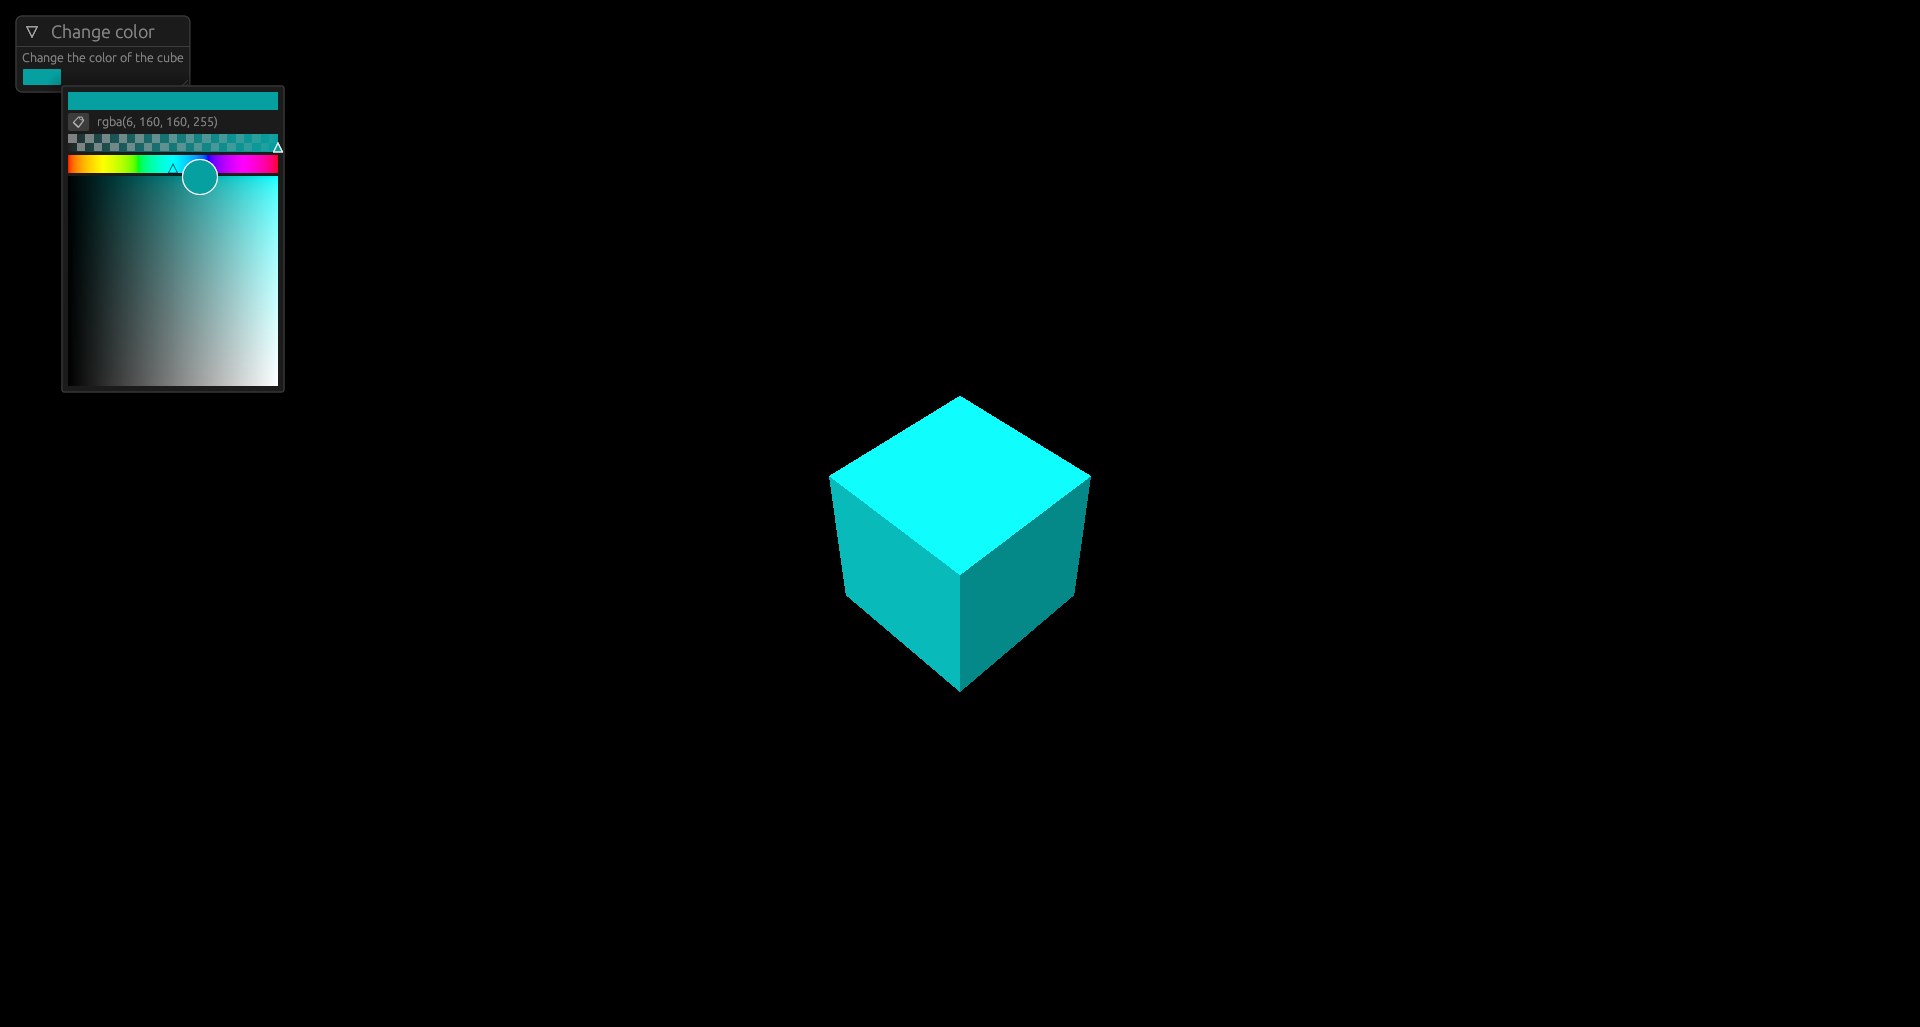
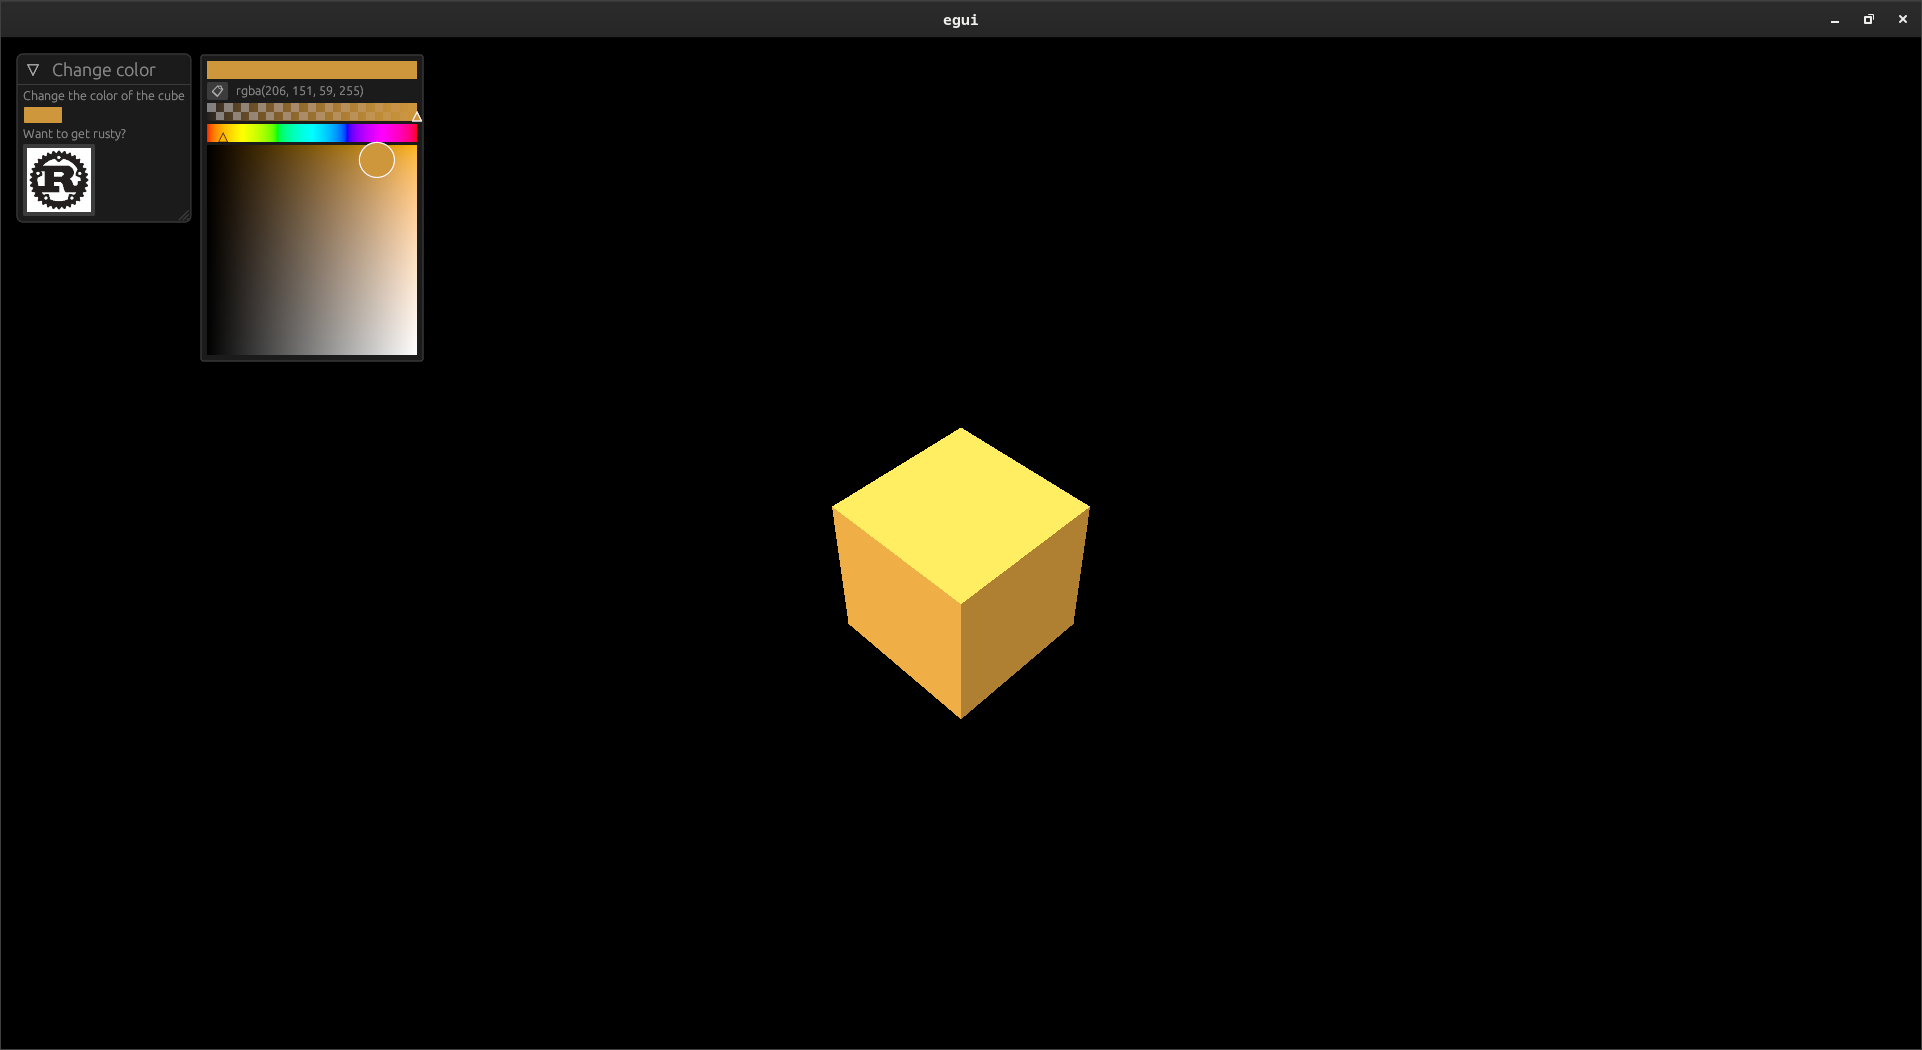
Added image importing for egui (#358)

Changed region(s): [[0.0, 0.0, 1.0, 0.4051], [0.4062, 0.3739, 0.5938, 0.6855], [0.0, 0.9971, 1.0, 1.0]]

diff --git a/rend3-egui/src/lib.rs b/rend3-egui/src/lib.rs
@@ -7,6 +7,7 @@ use rend3::{
     types::SampleCount,
     Renderer,
 };
+use std::sync::Arc;
 use wgpu::{Color, TextureFormat};
 
 pub struct EguiRenderRoutine {
@@ -86,6 +87,85 @@ impl EguiRenderRoutine {
                 .execute_with_renderpass(rpass, input.clipped_meshes, &this.screen_descriptor)
                 .unwrap();
         });
+    }
+
+    /// Creates an egui texture from the given image data, format, and dimensions.
+    pub fn create_egui_texture(
+        internal: &mut egui_wgpu_backend::RenderPass,
+        renderer: &Arc<rend3::Renderer>,
+        format: wgpu::TextureFormat,
+        image_rgba: &[u8],
+        dimensions: (u32, u32),
+        label: Option<&str>,
+    ) -> egui::TextureId {
+        let texture_size = wgpu::Extent3d {
+            width: dimensions.0,
+            height: dimensions.1,
+            depth_or_array_layers: 1,
+        };
+
+        let image_texture = renderer.device.create_texture(&wgpu::TextureDescriptor {
+            size: texture_size,
+            mip_level_count: 1,
+            sample_count: 1,
+            dimension: wgpu::TextureDimension::D2,
+            format,
+            usage: wgpu::TextureUsages::TEXTURE_BINDING | wgpu::TextureUsages::COPY_DST,
+            label,
+        });
+
+        EguiRenderRoutine::wgpu_texture_to_egui(
+            internal,
+            renderer,
+            image_texture,
+            image_rgba,
+            dimensions,
+            format.describe(),
+        )
+    }
+
+    /// Creates egui::TextureId with wgpu backend with existing wgpu::Texture
+    pub fn wgpu_texture_to_egui(
+        internal: &mut egui_wgpu_backend::RenderPass,
+        renderer: &Arc<rend3::Renderer>,
+        image_texture: wgpu::Texture,
+        image_rgba: &[u8],
+        dimensions: (u32, u32),
+        textureformatinfo: wgpu_types::TextureFormatInfo,
+    ) -> egui::TextureId {
+        let device = &renderer.device;
+        let queue = &renderer.queue;
+
+        let texture_size = wgpu::Extent3d {
+            width: dimensions.0,
+            height: dimensions.1,
+            depth_or_array_layers: 1,
+        };
+
+        queue.write_texture(
+            wgpu::ImageCopyTexture {
+                texture: &image_texture,
+                mip_level: 0,
+                origin: wgpu::Origin3d::ZERO,
+                aspect: wgpu::TextureAspect::All,
+            },
+            image_rgba,
+            wgpu::ImageDataLayout {
+                offset: 0,
+                bytes_per_row: std::num::NonZeroU32::new(
+                    (dimensions.0 / textureformatinfo.block_dimensions.0 as u32) * textureformatinfo.block_size as u32,
+                ),
+                rows_per_image: None,
+            },
+            texture_size,
+        );
+
+        egui_wgpu_backend::RenderPass::egui_texture_from_wgpu_texture(
+            internal,
+            device,
+            &image_texture,
+            wgpu::FilterMode::Linear,
+        )
     }
 }
 

diff --git a/examples/egui/src/main.rs b/examples/egui/src/main.rs
@@ -16,6 +16,7 @@ const SAMPLE_COUNT: rend3::types::SampleCount = rend3::types::SampleCount::One;
 #[derive(Default)]
 struct EguiExample {
     data: Option<EguiExampleData>,
+    rust_logo: egui::TextureId,
 }
 impl rend3_framework::App for EguiExample {
     const HANDEDNESS: rend3::types::Handedness = rend3::types::Handedness::Left;
@@ -34,7 +35,7 @@ impl rend3_framework::App for EguiExample {
         let window_size = window.inner_size();
 
         // Create the egui render routine
-        let egui_routine = rend3_egui::EguiRenderRoutine::new(
+        let mut egui_routine = rend3_egui::EguiRenderRoutine::new(
             renderer,
             surface_format,
             rend3::types::SampleCount::One,
@@ -107,6 +108,25 @@ impl rend3_framework::App for EguiExample {
             style: Default::default(),
         });
 
+        //Images
+        let image_bytes = include_bytes!("images/rust-logo-128x128-blk.png");
+        let image_image = image::load_from_memory(image_bytes).unwrap();
+        let image_rgba = image_image.as_rgba8().unwrap().clone().into_raw();
+
+        use image::GenericImageView;
+        let dimensions = image_image.dimensions();
+
+        let format = wgpu::TextureFormat::Rgba8UnormSrgb;
+
+        self.rust_logo = rend3_egui::EguiRenderRoutine::create_egui_texture(
+            &mut egui_routine.internal,
+            renderer,
+            format,
+            &image_rgba,
+            dimensions,
+            Some("rust_logo_texture"),
+        );
+
         let start_time = instant::Instant::now();
         let color: [f32; 4] = [0.0, 0.5, 0.5, 1.0];
 
@@ -156,6 +176,13 @@ impl rend3_framework::App for EguiExample {
                                 ..rend3_routine::pbr::PbrMaterial::default()
                             },
                         );
+                    }
+                    ui.label("Want to get rusty?");
+                    if ui
+                        .add(egui::widgets::ImageButton::new(self.rust_logo, egui::Vec2::splat(64.0)))
+                        .clicked()
+                    {
+                        webbrowser::open("https://www.rust-lang.org").expect("failed to open URL");
                     }
                 });
 

diff --git a/CHANGELOG.md b/CHANGELOG.md
@@ -31,6 +31,11 @@ Per Keep a Changelog there are 6 main categories of changes:
 
 ## Unreleased
 
+### Added
+- rend3-egui: Added the ability to create egui textures (egui::TextureId) with the wgpu backend @AlbinSjoegren
+  - Added function for creating egui textures (egui::TextureId) @AlbinSjoegren
+  - Added function for writing previous wgpu textures with new rgba data and exporting to egui::TextureId @AlbinSjoegren
+
 ## v0.3.0
 
 Released 2022-02-11
